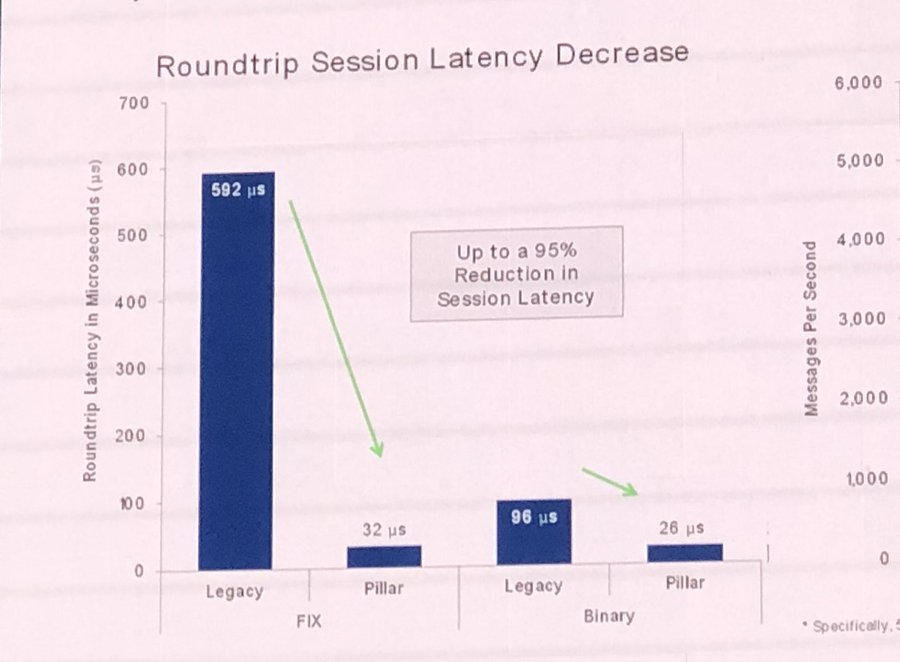
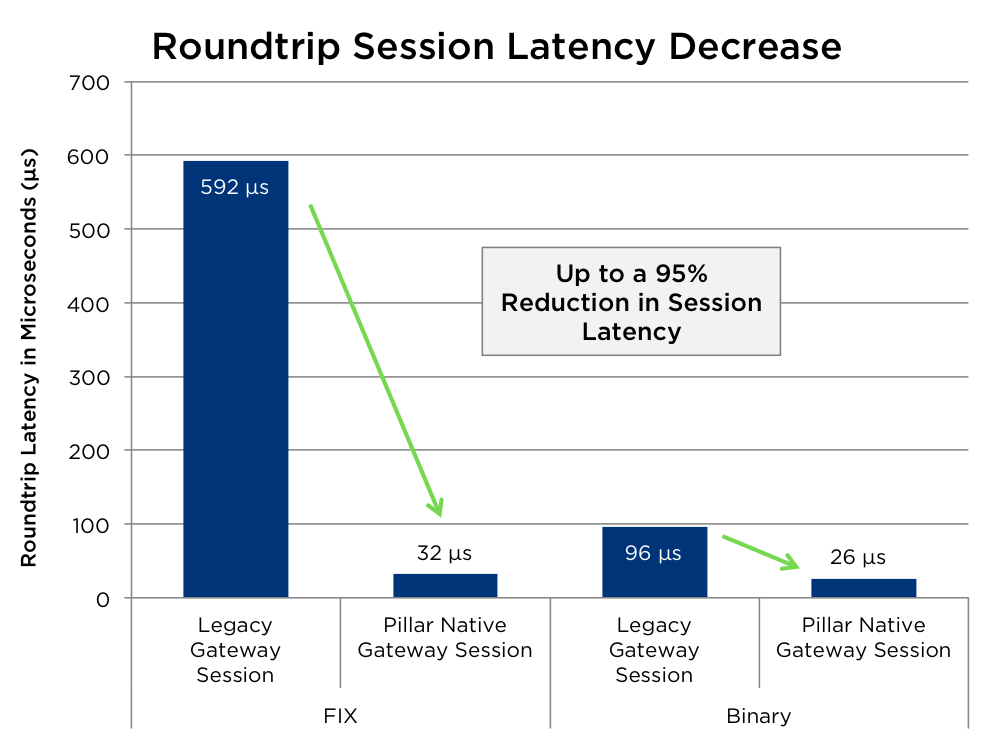
testing post.title

diff --git a/_posts/2019-11-24-NYSE-roundtrip-latency.md b/_posts/2019-11-24-NYSE-roundtrip-latency.md
@@ -5,7 +5,10 @@ title: NYSE Roundtrip Latency Numbers
 ---
 ## {{ page.title }}
 
-In summary, low double-digit micros for FIX or binary
+[NYSE Pillar](https://www.nyse.com/equities-insights#20190919)
+> Pillar's anticipated benefits are already being realized. In particular, the new "Native Gateway" order entry protocols offer dramatic improvements for members and their clients:
+1. Up to a 95% Reduction in Latency: The roundtrip latency on NYSE Pillar order entry sessions via Pillar matching engines has been reduced from ~592μs to ~32μs for FIX and from ~96μs to ~26μs for Binary, getting client orders into the market much faster. With a 92% improvement in the 99th percentile latency results, clients can also have more confidence in improved performance consistency regardless of market conditions.
+2. Cost reduction: The amount of messages capable of being processed over an order entry session has increased from 1,000 messages per second to 5,000 messages per second (500 messages per 100 milliseconds, to be specific). This increase enables clients to submit 5 times the amount of orders over one single session.  Session fees have remained unchanged, resulting in cost-reduction opportunities for the industry.
 
 [https://twitter.com/kmcpartland/status/1188898674249752576](https://twitter.com/kmcpartland/status/1188898674249752576)
 
